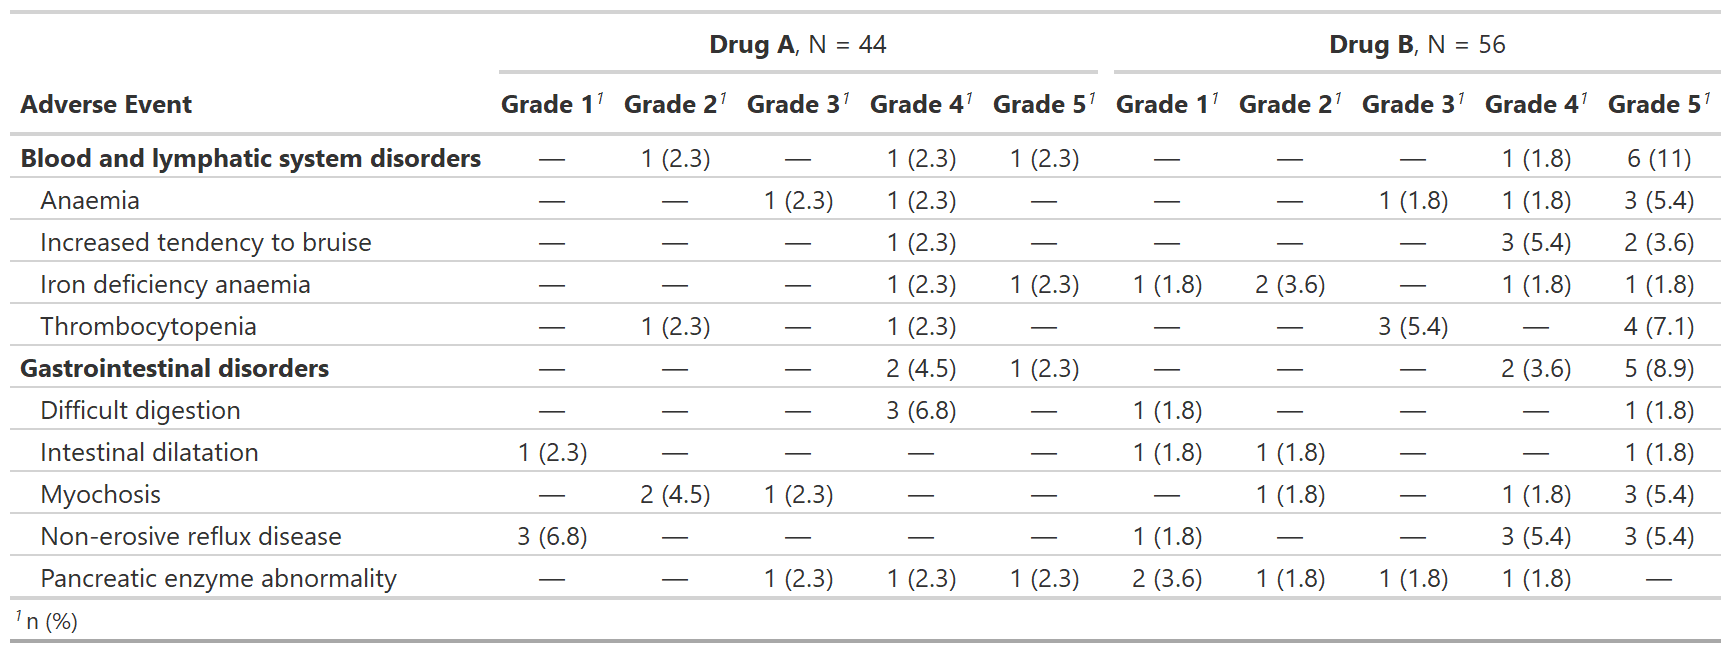
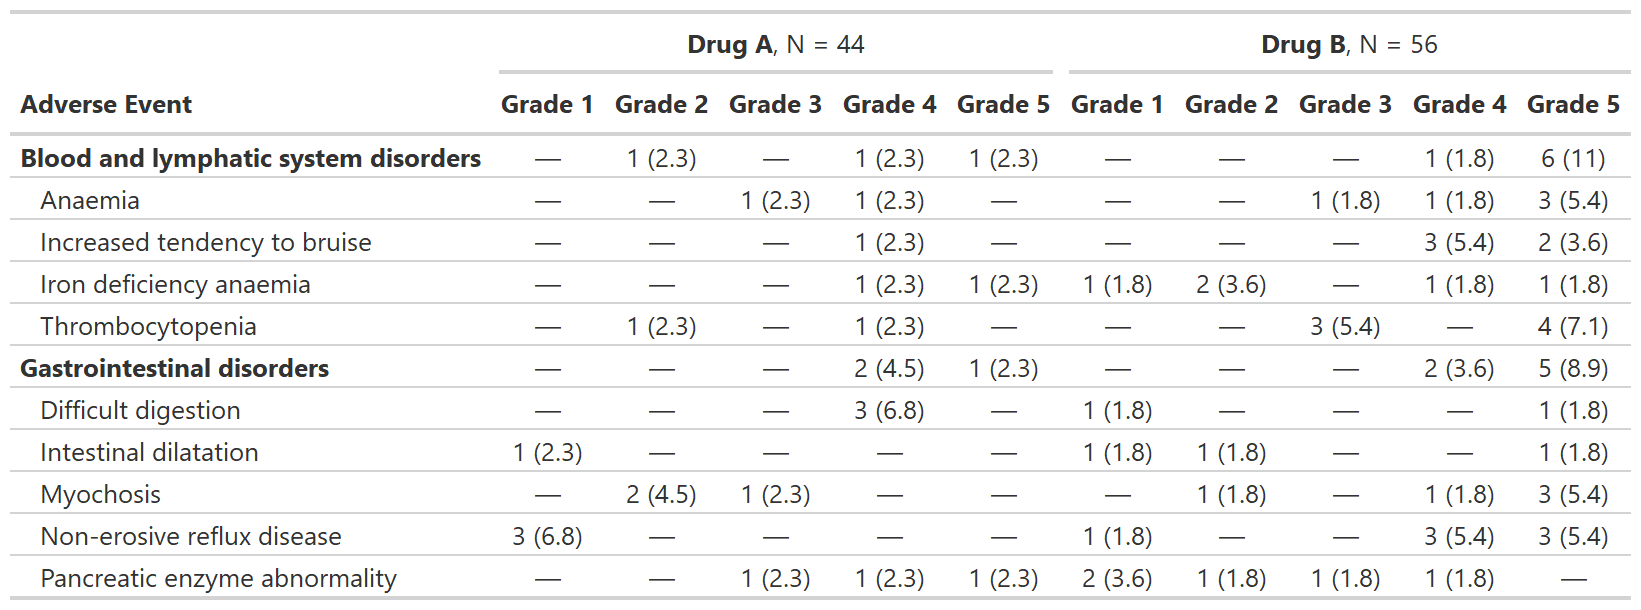
update readme to new syntax (#98)

Changed region(s): [[0.0, 0.0, 0.9945, 0.9967]]

diff --git a/README.md b/README.md
@@ -45,9 +45,9 @@ tbl_ae <-
     ae = adverse_event,
     soc = system_organ_class, 
     by = grade, 
-    strata = trt,
-    header_by = "**Grade {level}**"
+    strata = trt
   ) %>%
+  modify_ae_header(all_ae_cols() ~ "**Grade {by}**") %>% 
   bold_labels()
 ```
 
@@ -63,8 +63,8 @@ tbl_ae_count <-
     soc = system_organ_class, 
     by = drug_attribution
   ) %>%
-  modify_spanning_header(all_stat_cols() ~ "**Drug Attribution**") %>%
   add_overall(across = "by") %>%
+  modify_ae_spanning_header(all_ae_cols() ~ "**Drug Attribution**") %>%
   bold_labels()
 ```
 
